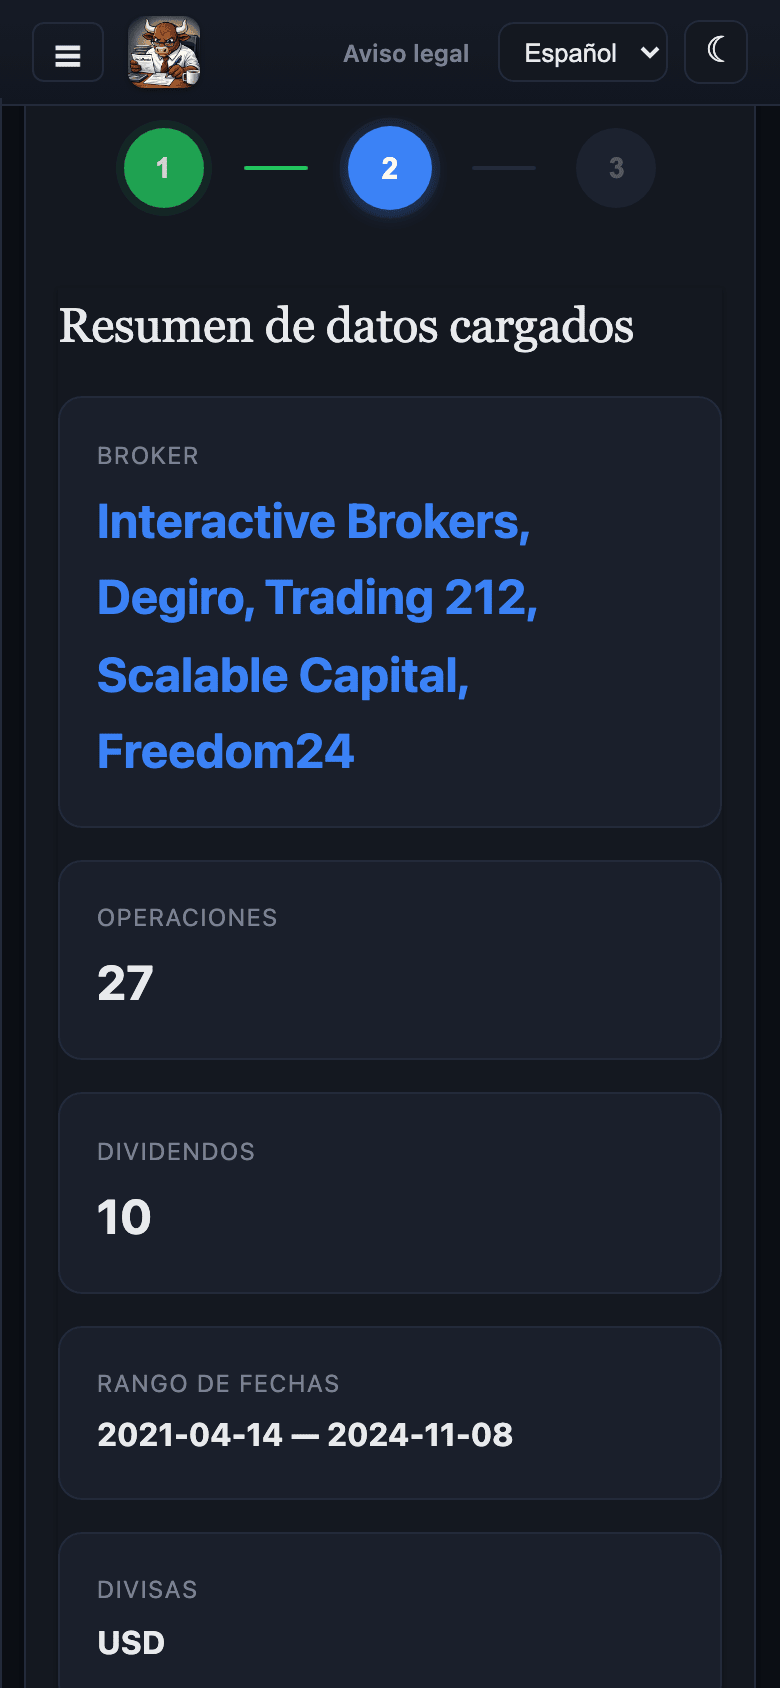
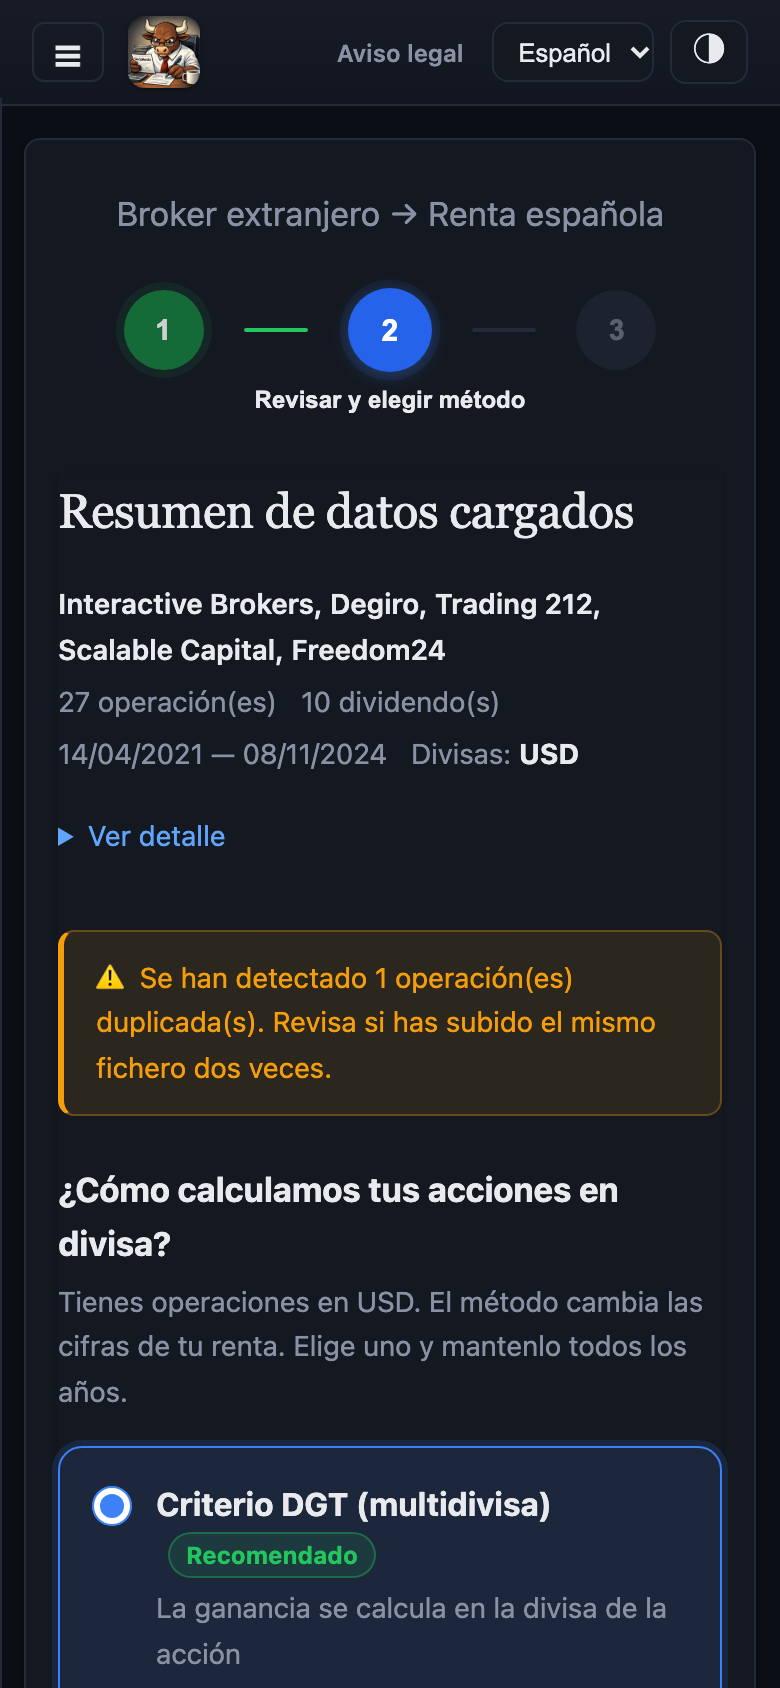
fix(web): style the data checks on the review step and refresh its screenshots
The duplicate and old-data checks rendered as a bare bulleted line pressed
against the method heading. They now use the same note style as the method
risk, the broker list gets its own line, and the docs show the new step.

diff --git a/src/web/style.css b/src/web/style.css
@@ -3480,13 +3480,8 @@ footer a:hover {
   color: var(--muted);
 }
 
-.review-summary > span + span::before {
-  content: "·";
-  margin-right: var(--space-3);
-  color: var(--border);
-}
-
 .review-summary-broker {
+  flex-basis: 100%;
   color: var(--text);
   font-weight: 600;
 }
@@ -3515,7 +3510,7 @@ footer a:hover {
 /* Method cards: a native radio group, the whole card is the hit area */
 .method-picker {
   border: 0;
-  margin: 0 0 var(--space-5);
+  margin: var(--space-5) 0 var(--space-5);
   padding: 0;
   min-width: 0;
 }
@@ -4063,4 +4058,36 @@ footer a:hover {
   .method-compare-table .method-paren {
     display: none;
   }
+}
+
+/* Data checks on the review step (duplicates, missing years, very old data). */
+.validation-banner {
+  margin: var(--space-4) 0 0;
+}
+.validation-list {
+  list-style: none;
+  margin: 0;
+  padding: 0;
+  display: grid;
+  gap: var(--space-2);
+}
+.validation-list > li {
+  padding: var(--space-3) var(--space-4);
+  border-radius: var(--radius-sm);
+  font-size: 0.875rem;
+  color: var(--warning-text);
+  background: var(--warning-bg);
+  border: 1px solid var(--warning-border);
+  border-left: 3px solid var(--warning-text);
+}
+.validation-list > li.validation-error {
+  color: var(--danger-text);
+  border-color: var(--danger);
+  border-left-color: var(--danger-text);
+}
+.validation-list > li.validation-info {
+  color: var(--text);
+  background: transparent;
+  border-color: var(--border);
+  border-left-color: var(--accent);
 }
